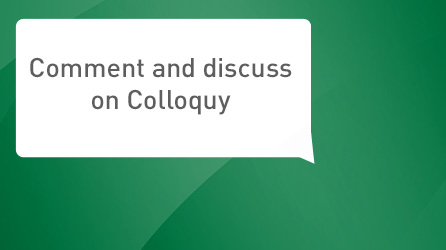
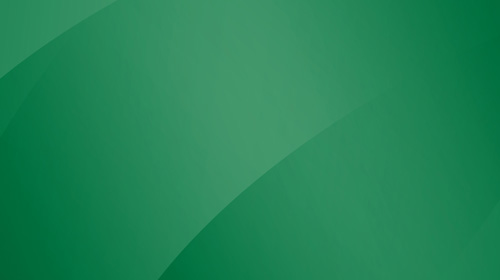
change update

diff --git a/less/custom/change/custom.less b/less/custom/change/custom.less
@@ -29,6 +29,11 @@
       }
       .nav4 {
         width: percentage(110/@totalNavWidth);
+        .section-navigation li{
+	        width:100%;
+	        text-align:left;
+	        margin-left:-11px;
+        }
       }
     }
   }
@@ -38,13 +43,16 @@
 	 margin-top:10px;
  } 
  h1.hp-header{
-	 font-family:'@sansFontFamily';
+	 font-family:"Helvetica Neue", Arial, sans-serif;
  }
 .homepage .join-the-convo{
-	background-image:url('../img/join-the-convo.jpg');
-	width:100%;
-	height:100%;
+	background-image:url('../../img/join-the-convo.jpg');
+	background-repeat:no-repeat;
+	background-color:#077546;
+}
+.homepage  .join-the-convo-img{
+	text-align:center;
 }
 .homepage .join-the-convo a{
-	margin-top:100px;
+	margin-bottom:10px;
 }
